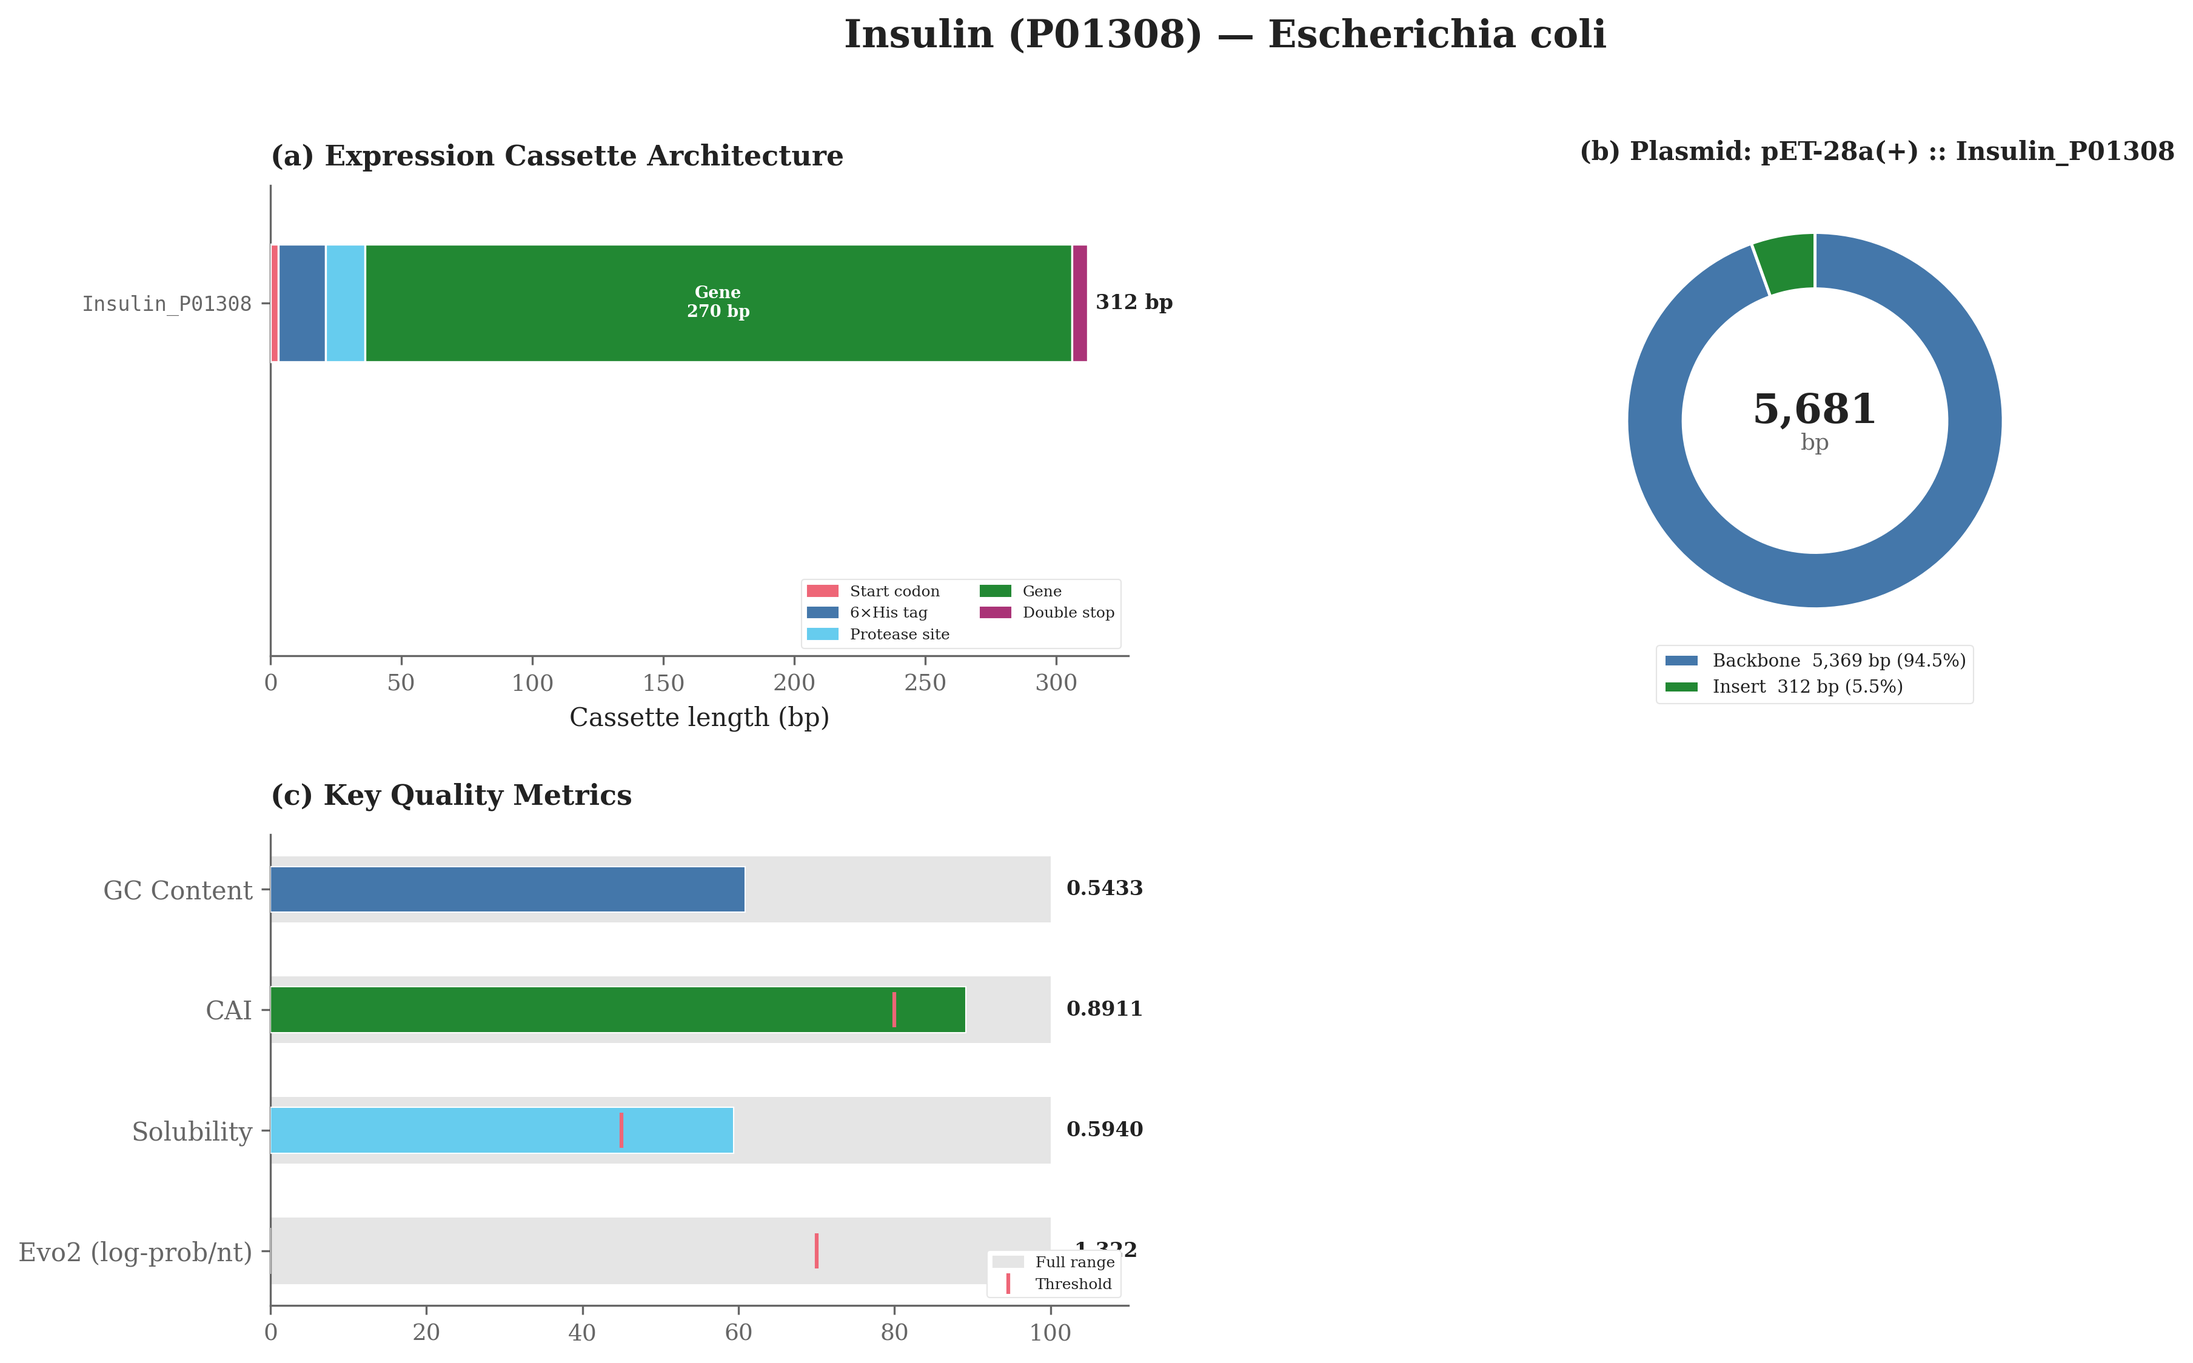
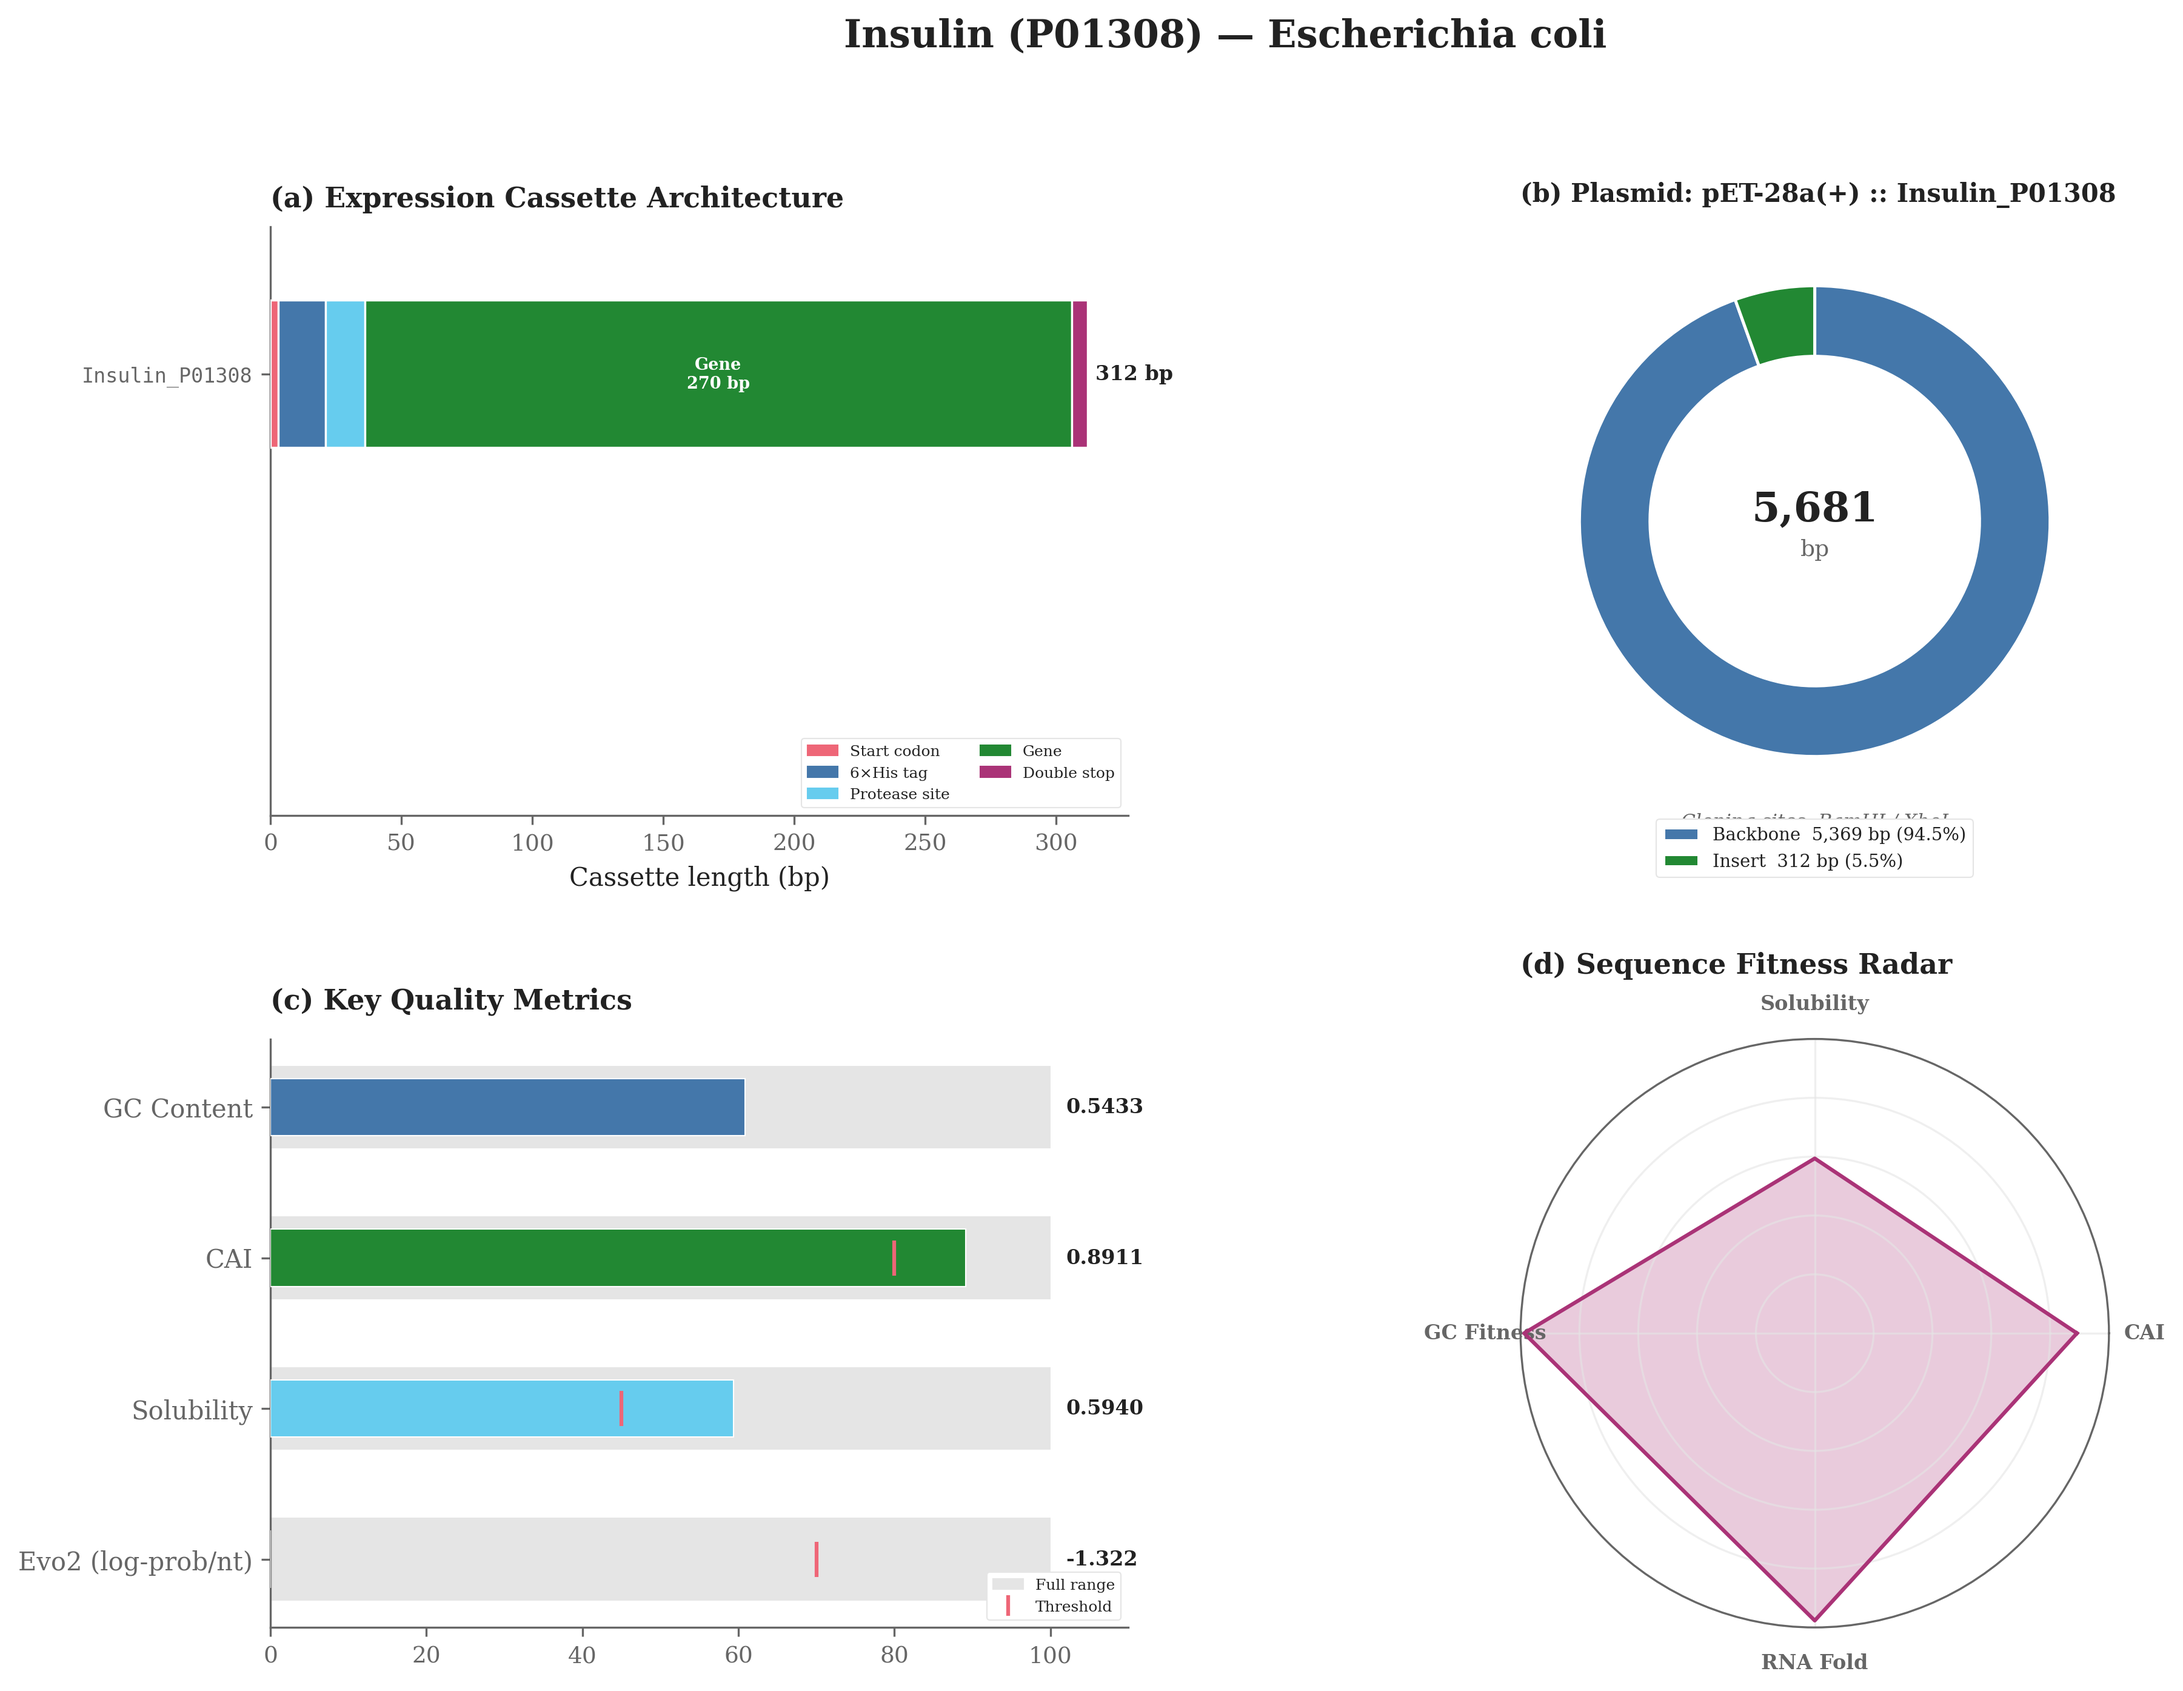
feat: add sequence fitness radar chart to visualization pipeline and include prototype plotting script

diff --git a/plot_options.py b/plot_options.py
@@ -1,0 +1,105 @@
+import json
+
+import numpy as np
+import matplotlib.pyplot as plt
+import matplotlib.patches as mpatches
+import matplotlib.gridspec as gridspec
+from pathlib import Path
+from math import pi
+
+plt.style.use('ggplot')
+OUT_DIR = Path("/Users/andrevandam/.gemini/antigravity/brain/bd603fb4-a0a5-40b6-985a-0ded1eea7197")
+
+# --- DATA ---
+summary = json.loads(open("output/P01308_summary.json").read())
+import csv
+with open("output/Insulin_P01308_peptides.tsv", newline="") as f:
+    peptides = list(csv.DictReader(f, delimiter="\t"))
+
+try:
+    with open("output/log.txt") as f:
+        log_txt = f.read()
+except:
+    log_txt = ""
+
+ch = summary["chains"][0]
+cks = {c["name"]: c["value"] for c in ch.get("checks", [])}
+
+# --- OPTION 1: LC-MS/MS Peptides ---
+fig, ax = plt.subplots(figsize=(6, 4))
+y_offsets = np.zeros(len(peptides))
+for i, row in enumerate(peptides):
+    start = int(row['start'])
+    end = int(row['end'])
+    mass = float(row['mono_mass'])
+    # Stagger overlapping peptides
+    y = i % 3
+    ax.plot([start, end], [y, y], linewidth=5, solid_capstyle='round', alpha=0.8)
+    ax.text((start + end)/2, y + 0.15, f"{mass:.0f} Da", ha='center', va='bottom', fontsize=7)
+
+ax.set_ylim(-1, 4)
+ax.set_xlim(0, max(int(row['end']) for row in peptides) + 5)
+ax.set_yticks([])
+ax.set_xlabel("Amino Acid Position", fontweight="bold")
+ax.set_title("Option 1: Tryptic Peptide Coverage Map", loc="left", fontweight="bold", fontsize=11)
+ax.spines['top'].set_visible(False)
+ax.spines['right'].set_visible(False)
+ax.spines['left'].set_visible(False)
+plt.tight_layout()
+fig.savefig(OUT_DIR / "option1_peptides.png", dpi=150)
+plt.close(fig)
+
+# --- OPTION 2: Radar Chart ---
+metrics = ["CAI Score", "Solubility", "GC Content Fitness", "RNA Structure"]
+# Normalize to 0-1
+cai = cks.get("cai_score", 0.89)
+sol = ch.get("solubility_score", 0.59)
+# GC: ideal is 0.55. Distance from 0.55 penalty
+gc = cks.get("gc_content", 0.54)
+gc_fit = 1.0 - (abs(gc - 0.55) / 0.55)
+# RNA: ideal > -10. 
+rna = cks.get("rna_secondary_structure", -0.7)
+rna_fit = max(0, 1.0 - (abs(min(0, rna)) / 30.0))
+
+values = [cai, sol, gc_fit, rna_fit]
+values += values[:1] # close the loop
+N = len(metrics)
+angles = [n / float(N) * 2 * pi for n in range(N)]
+angles += angles[:1]
+
+fig, ax = plt.subplots(figsize=(5, 5), subplot_kw=dict(polar=True))
+plt.xticks(angles[:-1], metrics, color='grey', size=9, fontweight="bold")
+ax.plot(angles, values, linewidth=2, linestyle='solid', color='#3b82f6')
+ax.fill(angles, values, '#3b82f6', alpha=0.25)
+ax.set_ylim(0, 1.1)
+ax.set_yticks([0.2, 0.4, 0.6, 0.8, 1.0])
+ax.set_yticklabels(["", "", "", "", "Max"], color="grey", size=7)
+ax.set_title("Option 2: Validation Fitness Radar", loc="center", fontweight="bold", fontsize=11, pad=20)
+plt.tight_layout()
+fig.savefig(OUT_DIR / "option2_radar.png", dpi=150)
+plt.close(fig)
+
+# --- OPTION 3: Waterfall / Remediation Shift ---
+# We will mock the "before" state based on the log (147 fixes)
+fig, ax = plt.subplots(figsize=(6, 4))
+categories = ['CAI Score', 'Rare Codons', 'Restriction Sites', 'GC Deviation']
+initial = [0.65, 4, 2, 0.15]
+final = [cai, 0, 0, abs(gc - 0.55)]
+
+x = np.arange(len(categories))
+width = 0.35
+
+rects1 = ax.bar(x - width/2, initial, width, label='Initial (Wildtype)', color='#ef4444', alpha=0.8)
+rects2 = ax.bar(x + width/2, final, width, label='Optimized', color='#22c55e', alpha=0.8)
+
+ax.set_ylabel('Metric Value')
+ax.set_title('Option 3: Remediation Optimization Shift', loc="left", fontweight="bold", fontsize=11)
+ax.set_xticks(x)
+ax.set_xticklabels(categories, fontsize=9)
+ax.legend()
+
+plt.tight_layout()
+fig.savefig(OUT_DIR / "option3_waterfall.png", dpi=150)
+plt.close(fig)
+
+print("Generated all 3 options.")

diff --git a/aixbio/tools/visualizations.py b/aixbio/tools/visualizations.py
@@ -330,6 +330,45 @@ def _panel_overview(ax: plt.Axes, summary: dict) -> None:
     ax.legend(handles=handles, loc="lower right", fontsize=6)
 
 
+
+# ── Panel E: Validation Fitness Radar ──────────────────────────
+
+def _panel_radar(ax: plt.Axes, summary: dict) -> None:
+    from math import pi
+    chains = summary.get("chains", [])
+    if not chains:
+        ax.set_visible(False)
+        return
+        
+    ch = chains[0]
+    cks = {c["name"]: c["value"] for c in ch.get("checks", [])}
+    
+    cai = cks.get("cai_score", 0.0)
+    sol = ch.get("solubility_score", 0.0)
+    gc = cks.get("gc_content", 0.5)
+    gc_fit = max(0, 1.0 - (abs(gc - 0.55) / 0.55))
+    rna = cks.get("rna_secondary_structure", -10)
+    rna_fit = max(0, 1.0 - (abs(min(0, rna)) / 30.0))
+    
+    values = [cai, sol, gc_fit, rna_fit]
+    metrics = ["CAI", "Solubility", "GC Fitness", "RNA Fold"]
+    
+    values += values[:1]
+    angles = [n / 4 * 2 * pi for n in range(4)]
+    angles += angles[:1]
+    
+    ax.plot(angles, values, linewidth=1.5, linestyle='solid', color=_PURPLE)
+    ax.fill(angles, values, color=_PURPLE, alpha=0.25)
+    ax.set_ylim(0, 1.0)
+    ax.set_yticks([0.2, 0.4, 0.6, 0.8, 1.0])
+    ax.set_yticklabels([], color="grey", size=6)
+    
+    # We must set xticks inside the subplot axis explicitly
+    ax.set_xticks(angles[:-1])
+    ax.set_xticklabels(metrics, color=_DKGREY, size=8, fontweight="bold")
+    ax.set_title("(d) Sequence Fitness Radar", loc="left", fontweight="bold", pad=8)
+
+
 # ── Combined figure ──────────────────────────────────────────────────
 
 def _build_combined_figure(summary: dict, out: Path) -> Path:
@@ -337,11 +376,11 @@ def _build_combined_figure(summary: dict, out: Path) -> Path:
 
     Layout (2 rows × 2 cols):
         Row 0:  (a) Cassette architecture  |  (b) Plasmid construct
-        Row 1:  (c) Key metrics overview   |  (Empty)
+        Row 1:  (c) Key metrics overview   |  (d) Radar chart
     """
     _apply_theme()
 
-    fig = plt.figure(figsize=(14, 8))
+    fig = plt.figure(figsize=(14, 10))
     gs = gridspec.GridSpec(2, 2, figure=fig, hspace=0.38, wspace=0.30)
 
     # (a) Cassette architecture
@@ -355,6 +394,10 @@ def _build_combined_figure(summary: dict, out: Path) -> Path:
     # (c) Overview gauges
     ax_over = fig.add_subplot(gs[1, 0])
     _panel_overview(ax_over, summary)
+
+    # (d) Radar chart
+    ax_radar = fig.add_subplot(gs[1, 1], polar=True)
+    _panel_radar(ax_radar, summary)
 
     # Suptitle
     protein = summary.get("protein", {})
